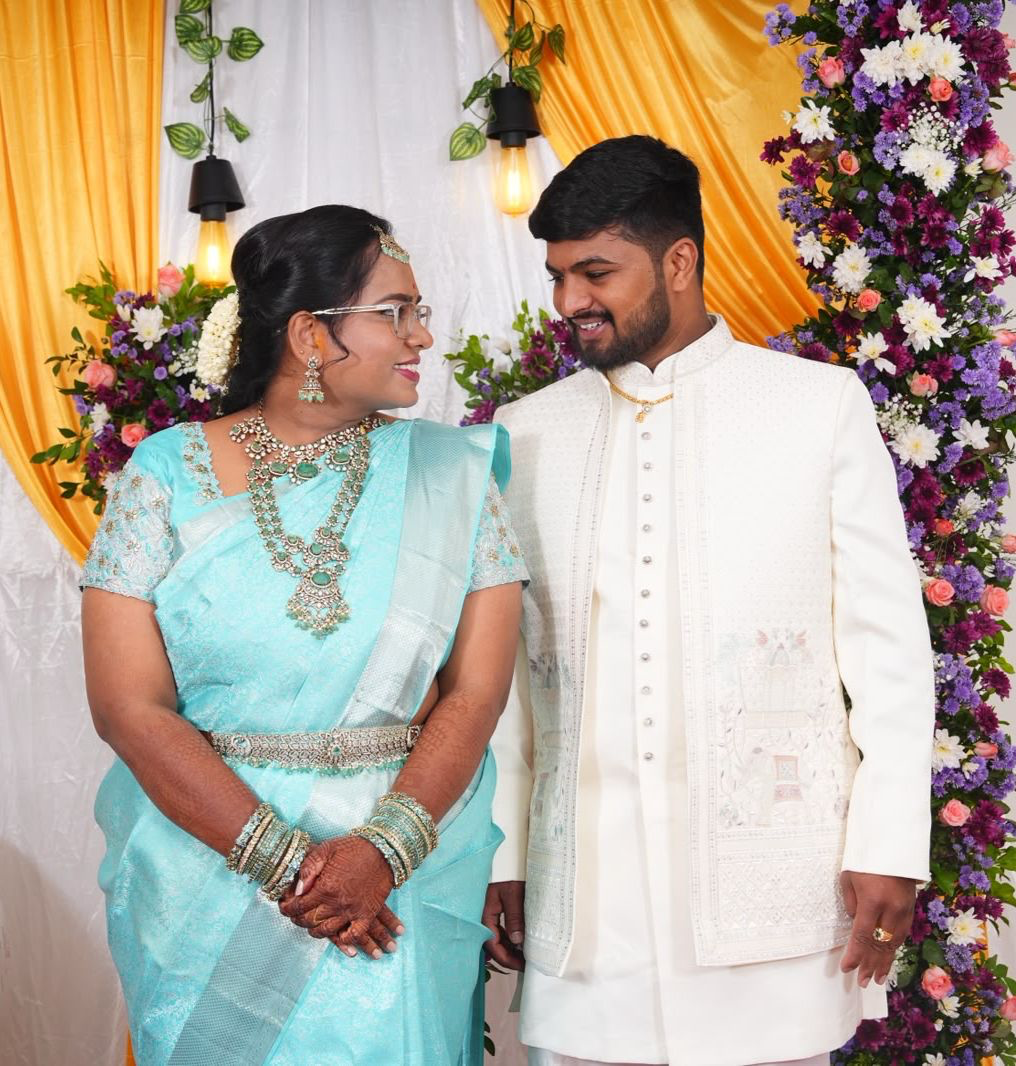
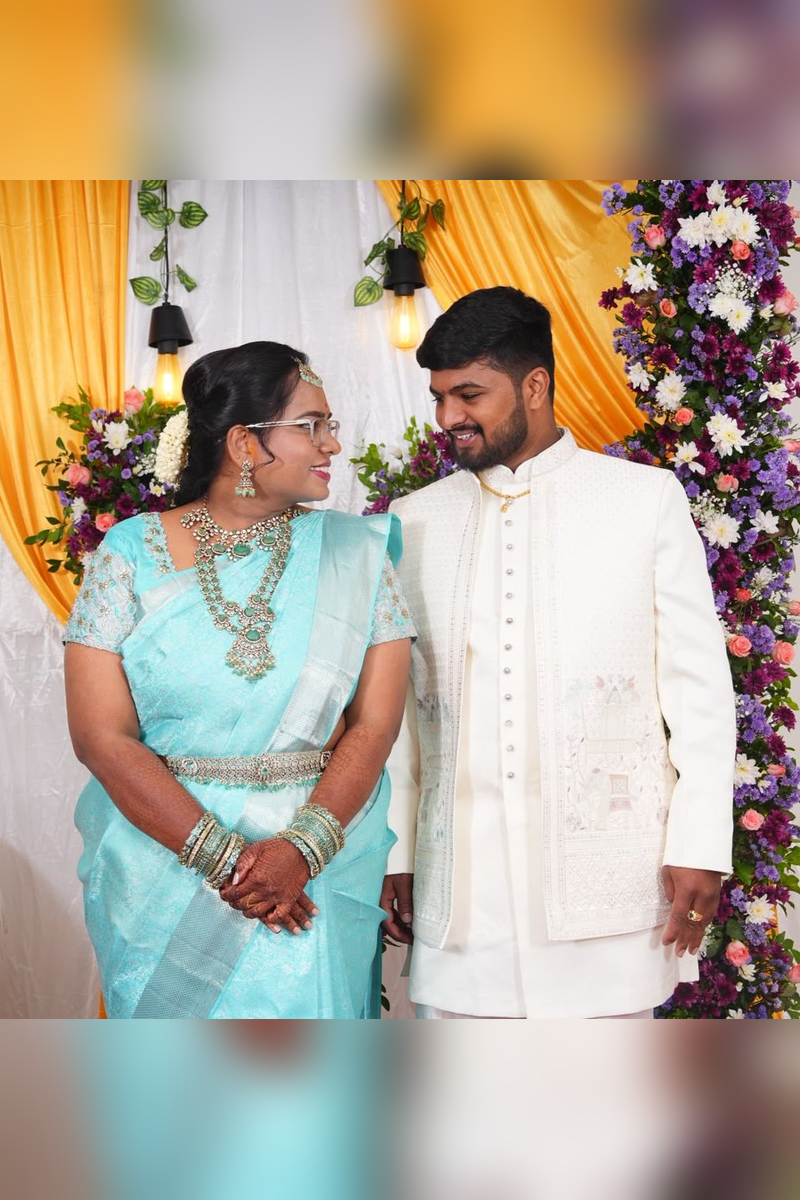
Update preview-card and preview.png to portrait ratio (800x1200) with absolute metadata

diff --git a/index.html b/index.html
@@ -13,28 +13,28 @@
   <meta property="og:site_name" content="Shivaraju &amp; Aishwarya Wedding">
   <meta property="og:title" content="Shivaraju &amp; Aishwarya — Wedding Invitation">
   <meta property="og:description" content="॥ Shubha Masthu ॥ You are cordially invited to the wedding ceremony of Chi. Ry. Shivaraju R. and Chi. Sou. Aishwarya on Sunday, 06th December 2026 at R.V.C.S. Convention Hall, Ramanagara Town.">
-  <meta property="og:image" content="/preview-card.jpg">
-  <meta property="og:image:secure_url" content="/preview-card.jpg">
-  <meta property="og:image:type" content="image/jpeg">
-  <meta property="og:image:width" content="1200">
-  <meta property="og:image:height" content="630">
-  <meta property="og:image:alt" content="Shivaraju &amp; Aishwarya Wedding Invitation">
-
-  <!-- Fallback Square Preview for WhatsApp chat thumbnails -->
-  <meta property="og:image" content="/preview-square.jpg">
-  <meta property="og:image:secure_url" content="/preview-square.jpg">
+  <meta property="og:image" content="https://raw.githubusercontent.com/vsoftinvitations-ctrl/Shivaraj-aiswarya/main/public/preview-card.jpg">
+  <meta property="og:image:secure_url" content="https://raw.githubusercontent.com/vsoftinvitations-ctrl/Shivaraj-aiswarya/main/public/preview-card.jpg">
   <meta property="og:image:type" content="image/jpeg">
   <meta property="og:image:width" content="800">
-  <meta property="og:image:height" content="800">
+  <meta property="og:image:height" content="1200">
+  <meta property="og:image:alt" content="Shivaraju &amp; Aishwarya Wedding Invitation">
+
+  <!-- Fallback Portrait Preview for WhatsApp & mobile link unfurling -->
+  <meta property="og:image" content="https://raw.githubusercontent.com/vsoftinvitations-ctrl/Shivaraj-aiswarya/main/public/preview.png">
+  <meta property="og:image:secure_url" content="https://raw.githubusercontent.com/vsoftinvitations-ctrl/Shivaraj-aiswarya/main/public/preview.png">
+  <meta property="og:image:type" content="image/png">
+  <meta property="og:image:width" content="800">
+  <meta property="og:image:height" content="1200">
 
   <!-- Twitter / X Card Preview -->
   <meta name="twitter:card" content="summary_large_image">
   <meta name="twitter:title" content="Shivaraju &amp; Aishwarya — Wedding Invitation">
   <meta name="twitter:description" content="॥ Shubha Masthu ॥ You are cordially invited to the wedding ceremony of Chi. Ry. Shivaraju R. and Chi. Sou. Aishwarya on Sunday, 06th December 2026 at R.V.C.S. Convention Hall, Ramanagara Town.">
-  <meta name="twitter:image" content="/preview-card.jpg">
+  <meta name="twitter:image" content="https://raw.githubusercontent.com/vsoftinvitations-ctrl/Shivaraj-aiswarya/main/public/preview-card.jpg">
 
   <!-- General / Fallback Preview & Favicon -->
-  <link rel="image_src" href="/preview-card.jpg">
+  <link rel="image_src" href="https://raw.githubusercontent.com/vsoftinvitations-ctrl/Shivaraj-aiswarya/main/public/preview-card.jpg">
   <link rel="icon" type="image/jpeg" href="/preview-square.jpg">
   <link rel="preconnect" href="https://fonts.googleapis.com">
   <link rel="preconnect" href="https://fonts.gstatic.com" crossorigin>

diff --git a/wedding-invitation.html b/wedding-invitation.html
@@ -13,28 +13,28 @@
   <meta property="og:site_name" content="Shivaraju &amp; Aishwarya Wedding">
   <meta property="og:title" content="Shivaraju &amp; Aishwarya — Wedding Invitation">
   <meta property="og:description" content="॥ Shubha Masthu ॥ You are cordially invited to the wedding ceremony of Chi. Ry. Shivaraju R. and Chi. Sou. Aishwarya on Sunday, 06th December 2026 at R.V.C.S. Convention Hall, Ramanagara Town.">
-  <meta property="og:image" content="/preview-card.jpg">
-  <meta property="og:image:secure_url" content="/preview-card.jpg">
-  <meta property="og:image:type" content="image/jpeg">
-  <meta property="og:image:width" content="1200">
-  <meta property="og:image:height" content="630">
-  <meta property="og:image:alt" content="Shivaraju &amp; Aishwarya Wedding Invitation">
-
-  <!-- Fallback Square Preview for WhatsApp chat thumbnails -->
-  <meta property="og:image" content="/preview-square.jpg">
-  <meta property="og:image:secure_url" content="/preview-square.jpg">
+  <meta property="og:image" content="https://raw.githubusercontent.com/vsoftinvitations-ctrl/Shivaraj-aiswarya/main/public/preview-card.jpg">
+  <meta property="og:image:secure_url" content="https://raw.githubusercontent.com/vsoftinvitations-ctrl/Shivaraj-aiswarya/main/public/preview-card.jpg">
   <meta property="og:image:type" content="image/jpeg">
   <meta property="og:image:width" content="800">
-  <meta property="og:image:height" content="800">
+  <meta property="og:image:height" content="1200">
+  <meta property="og:image:alt" content="Shivaraju &amp; Aishwarya Wedding Invitation">
+
+  <!-- Fallback Portrait Preview for WhatsApp & mobile link unfurling -->
+  <meta property="og:image" content="https://raw.githubusercontent.com/vsoftinvitations-ctrl/Shivaraj-aiswarya/main/public/preview.png">
+  <meta property="og:image:secure_url" content="https://raw.githubusercontent.com/vsoftinvitations-ctrl/Shivaraj-aiswarya/main/public/preview.png">
+  <meta property="og:image:type" content="image/png">
+  <meta property="og:image:width" content="800">
+  <meta property="og:image:height" content="1200">
 
   <!-- Twitter / X Card Preview -->
   <meta name="twitter:card" content="summary_large_image">
   <meta name="twitter:title" content="Shivaraju &amp; Aishwarya — Wedding Invitation">
   <meta name="twitter:description" content="॥ Shubha Masthu ॥ You are cordially invited to the wedding ceremony of Chi. Ry. Shivaraju R. and Chi. Sou. Aishwarya on Sunday, 06th December 2026 at R.V.C.S. Convention Hall, Ramanagara Town.">
-  <meta name="twitter:image" content="/preview-card.jpg">
+  <meta name="twitter:image" content="https://raw.githubusercontent.com/vsoftinvitations-ctrl/Shivaraj-aiswarya/main/public/preview-card.jpg">
 
   <!-- General / Fallback Preview & Favicon -->
-  <link rel="image_src" href="/preview-card.jpg">
+  <link rel="image_src" href="https://raw.githubusercontent.com/vsoftinvitations-ctrl/Shivaraj-aiswarya/main/public/preview-card.jpg">
   <link rel="icon" type="image/jpeg" href="/preview-square.jpg">
   <link rel="preconnect" href="https://fonts.googleapis.com">
   <link rel="preconnect" href="https://fonts.gstatic.com" crossorigin>
